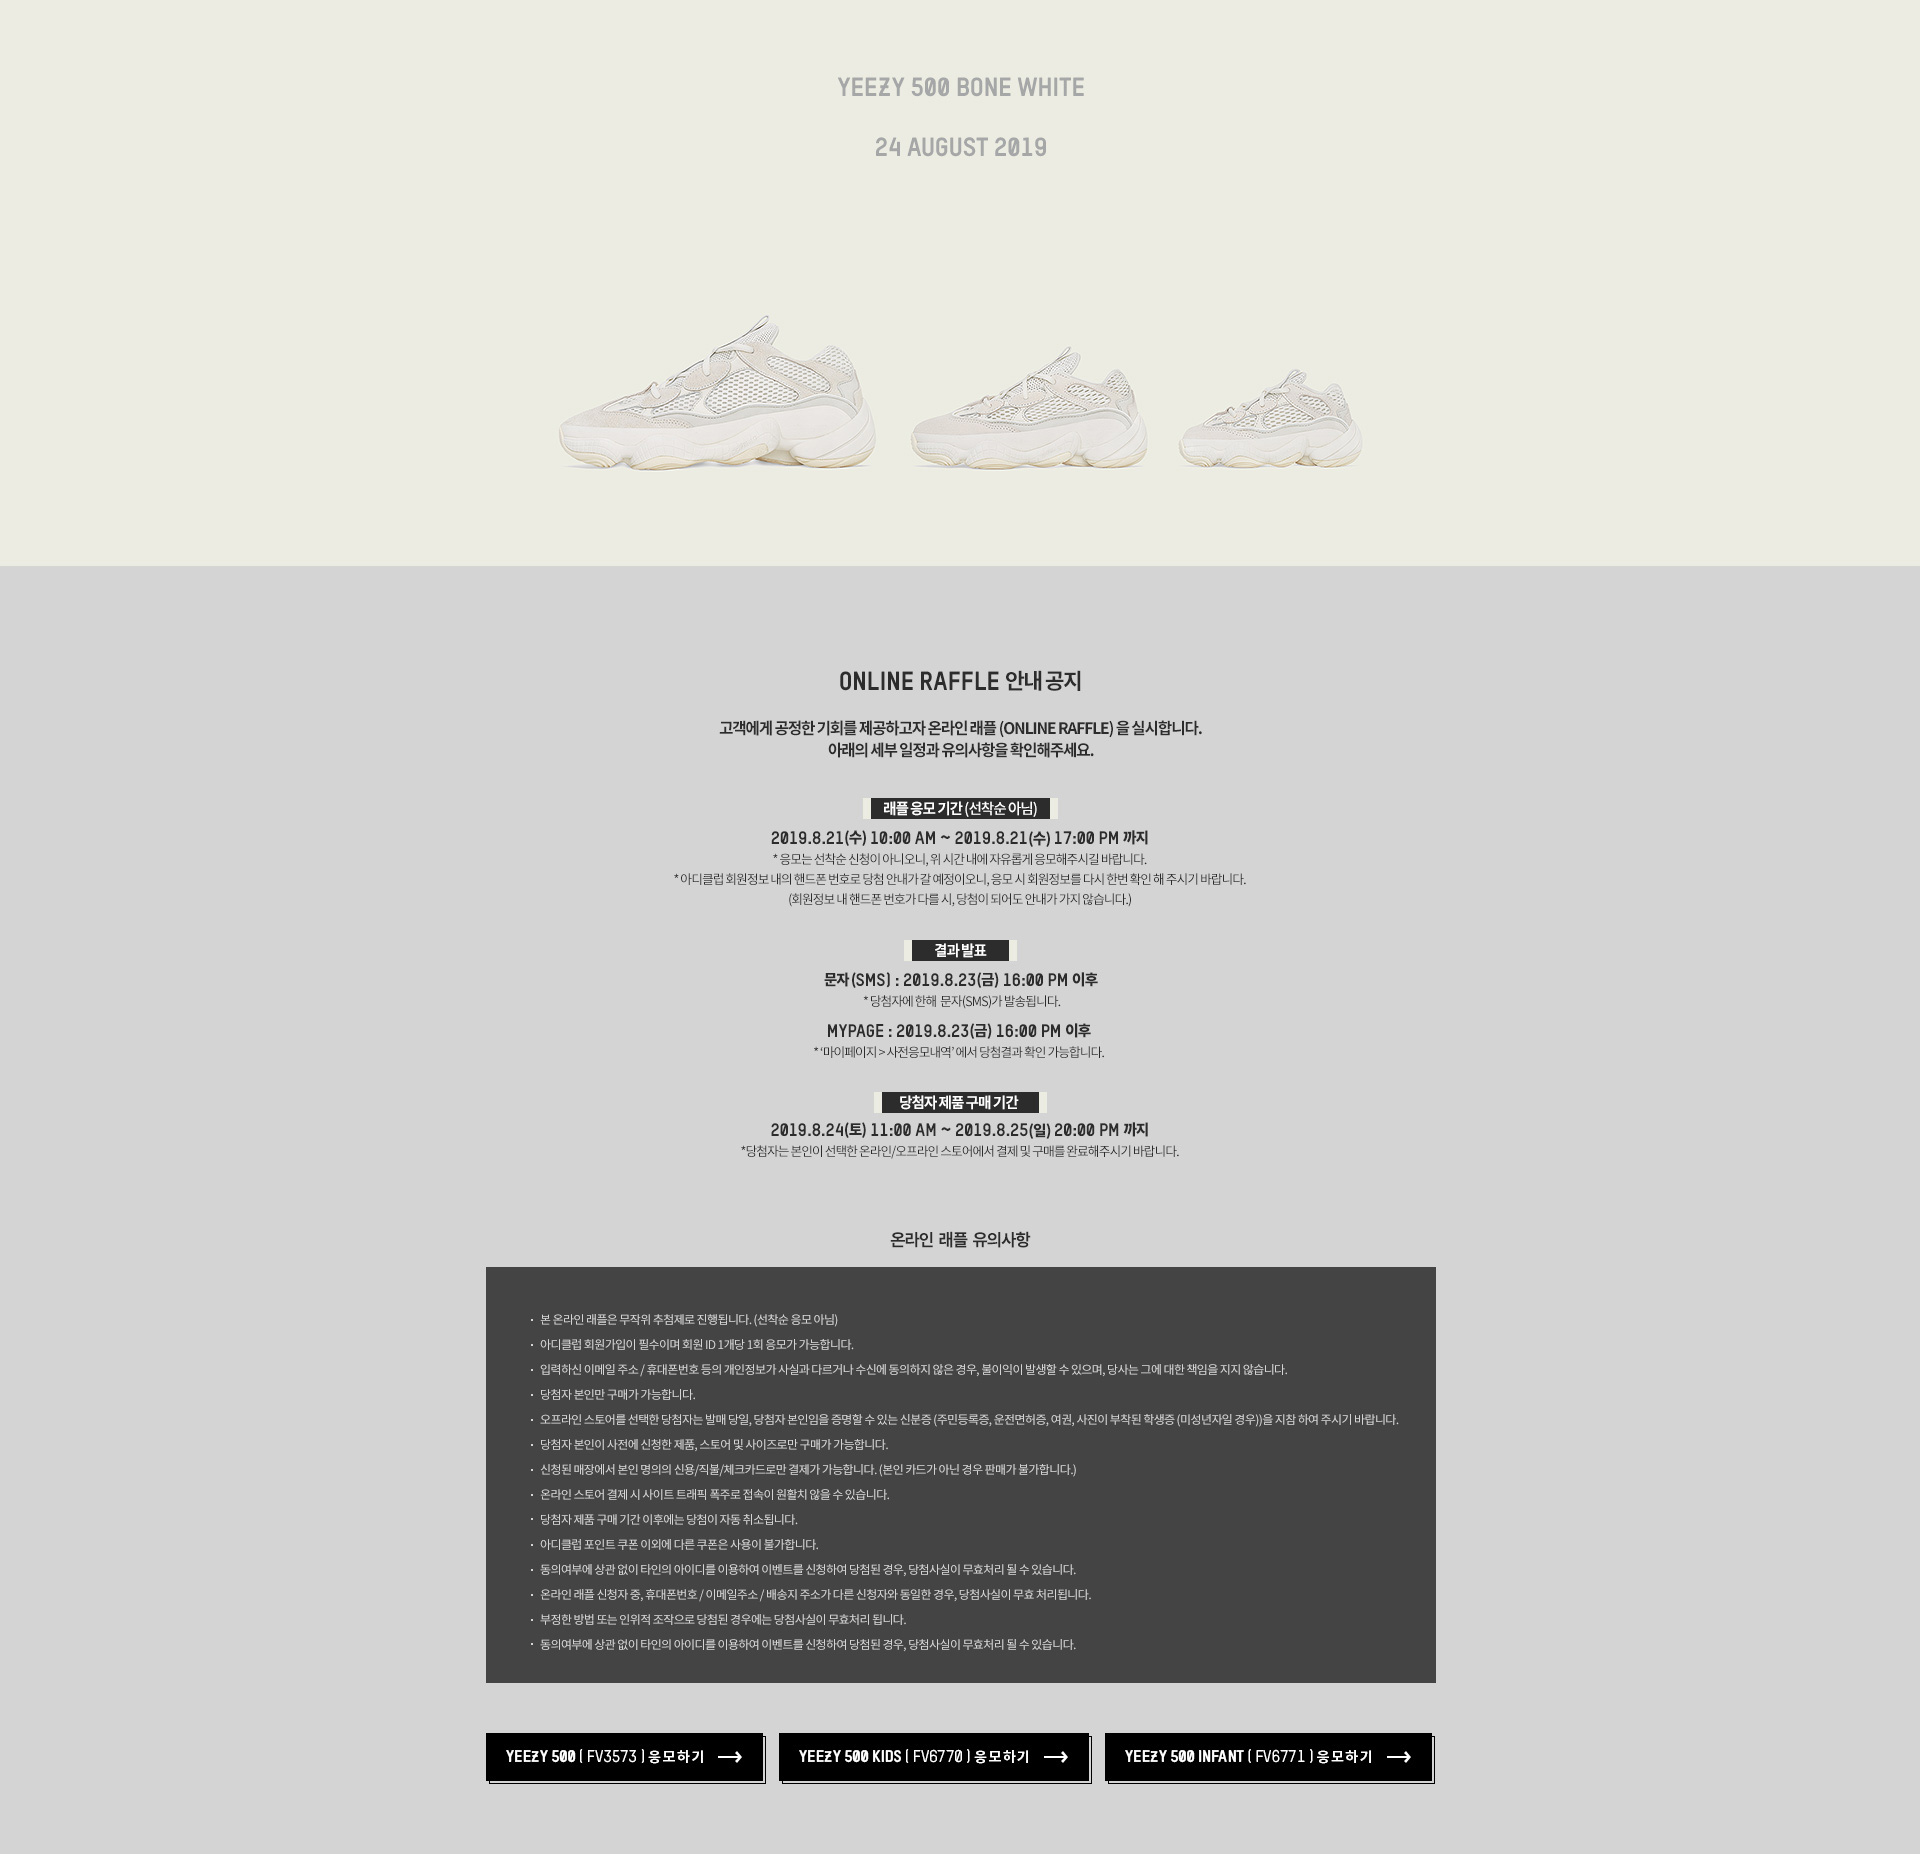
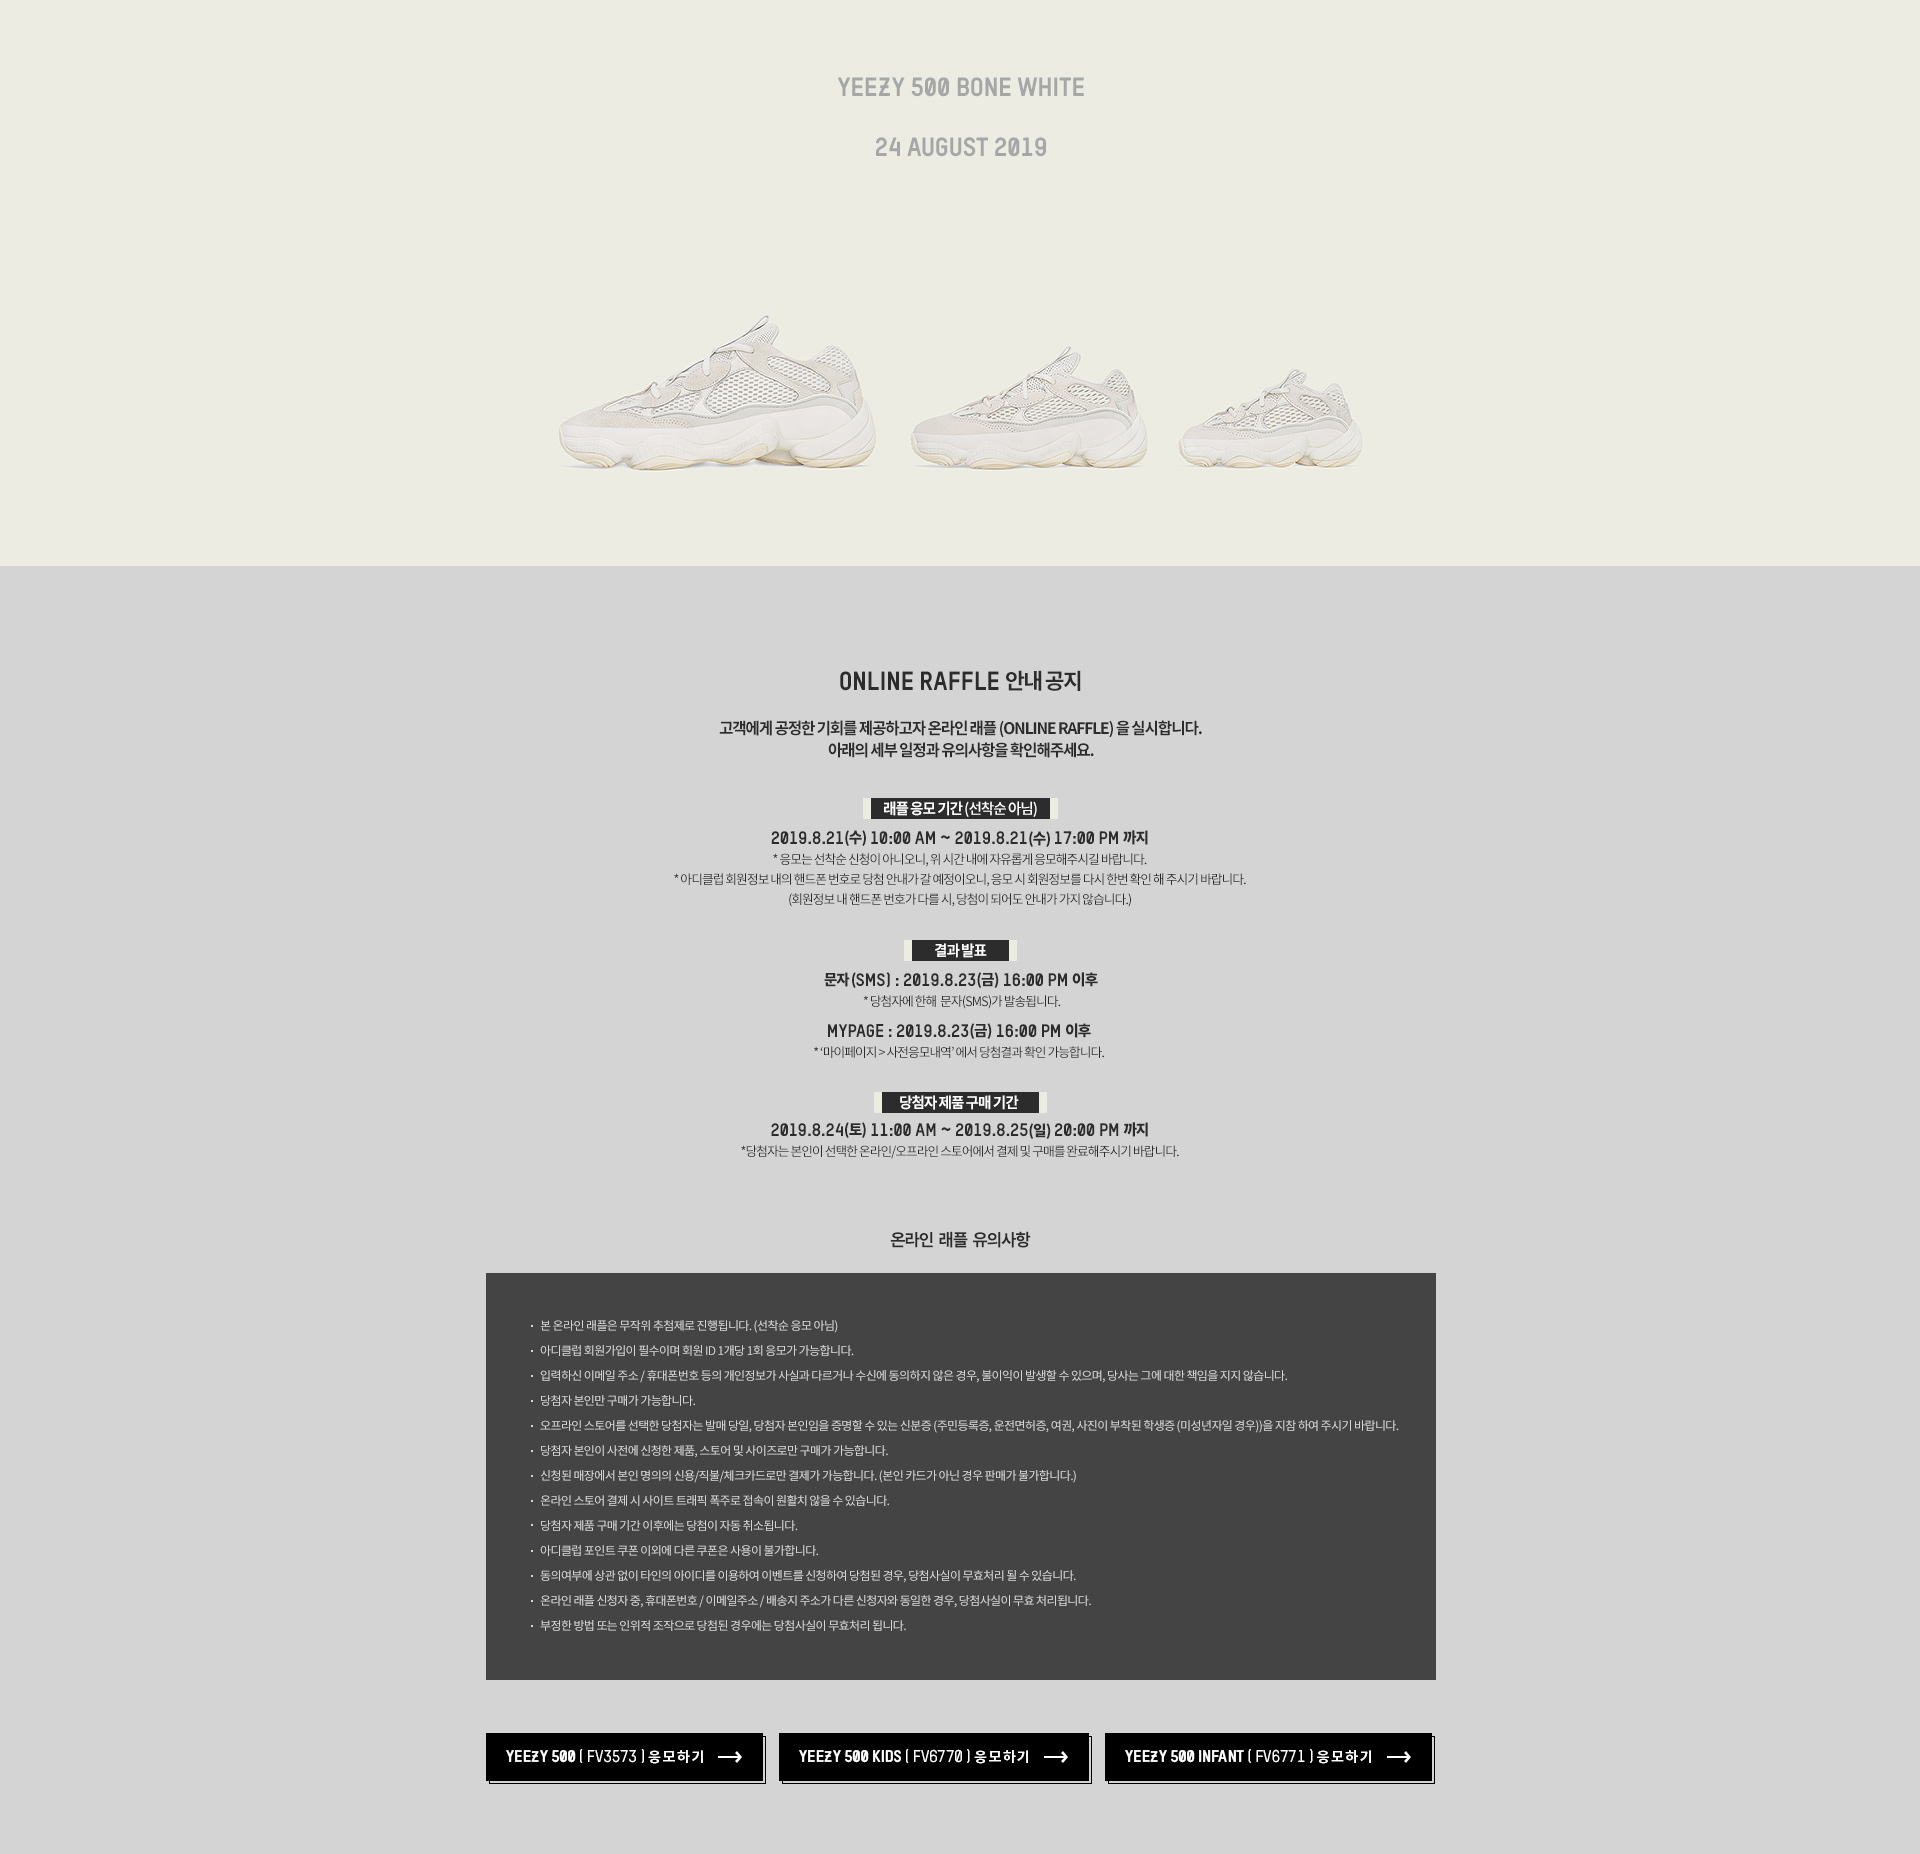
adi_FRT_이지

Changed region(s): [[0.2812, 0.6764, 0.7188, 0.8916]]

diff --git a/front/html/adidas/event/yeezy/190819/event_enter_vertical-2.html b/front/html/adidas/event/yeezy/190819/event_enter_vertical-2.html
@@ -1568,7 +1568,6 @@
 								<li>동의여부에 상관 없이 타인의 아이디를 이용하여 이벤트를 신청하여 당첨된 경우, 당첨사실이 무효처리 될 수 있습니다.</li>
 								<li>온라인 래플 신청자 중, 휴대폰번호 / 이메일주소 / 배송지 주소가 다른 신청자와 동일한 경우, 당첨사실이 무효 처리됩니다.</li>
 								<li>부정한 방법 또는 인위적 조작으로 당첨된 경우에는 당첨사실이 무효처리 됩니다.</li>
-								<li>동의여부에 상관 없이 타인의 아이디를 이용하여 이벤트를 신청하여 당첨된 경우, 당첨사실이 무효처리 될 수 있습니다.</li>
 							</ul>
 						</dd>
 					</dl>

diff --git a/front/html/adidas/event/yeezy/190819/event_enter_vertical-3.html b/front/html/adidas/event/yeezy/190819/event_enter_vertical-3.html
@@ -1568,7 +1568,6 @@
 								<li>동의여부에 상관 없이 타인의 아이디를 이용하여 이벤트를 신청하여 당첨된 경우, 당첨사실이 무효처리 될 수 있습니다.</li>
 								<li>온라인 래플 신청자 중, 휴대폰번호 / 이메일주소 / 배송지 주소가 다른 신청자와 동일한 경우, 당첨사실이 무효 처리됩니다.</li>
 								<li>부정한 방법 또는 인위적 조작으로 당첨된 경우에는 당첨사실이 무효처리 됩니다.</li>
-								<li>동의여부에 상관 없이 타인의 아이디를 이용하여 이벤트를 신청하여 당첨된 경우, 당첨사실이 무효처리 될 수 있습니다.</li>
 							</ul>
 						</dd>
 					</dl>

diff --git a/front/html/adidas/event/yeezy/190819/event_enter_vertical.html b/front/html/adidas/event/yeezy/190819/event_enter_vertical.html
@@ -1568,7 +1568,6 @@
 								<li>동의여부에 상관 없이 타인의 아이디를 이용하여 이벤트를 신청하여 당첨된 경우, 당첨사실이 무효처리 될 수 있습니다.</li>
 								<li>온라인 래플 신청자 중, 휴대폰번호 / 이메일주소 / 배송지 주소가 다른 신청자와 동일한 경우, 당첨사실이 무효 처리됩니다.</li>
 								<li>부정한 방법 또는 인위적 조작으로 당첨된 경우에는 당첨사실이 무효처리 됩니다.</li>
-								<li>동의여부에 상관 없이 타인의 아이디를 이용하여 이벤트를 신청하여 당첨된 경우, 당첨사실이 무효처리 될 수 있습니다.</li>
 							</ul>
 						</dd>
 					</dl>

diff --git a/front/html/adidas/event/yeezy/190819/yeezy_gate-2.html b/front/html/adidas/event/yeezy/190819/yeezy_gate-2.html
@@ -1140,7 +1140,7 @@
 							<p class="yzft" style="margin-bottom:40px;">24 AUGUST 2019</p>
 							<a href="#" class="button">
 								<span class="t1">응모하기</span>
-								<span class="t2"><strong>2019.8.21 <span>(수)</span> 05:00PM</strong> 마감</span>
+								<span class="t2"><strong>2019.8.21 <span>(수)</span> 17:00PM</strong> 마감</span>
 							</a>
 							<!-- //190819 작업 -->
 							<p class="noti">&#39;로그인이 필요합니다.&#39;</p>

diff --git a/front/html/adidas/event/yeezy/190819/yeezy_gate-3.html b/front/html/adidas/event/yeezy/190819/yeezy_gate-3.html
@@ -1140,7 +1140,7 @@
 							<p class="yzft" style="margin-bottom:40px;">24 AUGUST 2019</p>
 							<a href="#" class="button">
 								<span class="t1">응모하기</span>
-								<span class="t2"><strong>2019.8.21 <span>(수)</span> 05:00PM</strong> 마감</span>
+								<span class="t2"><strong>2019.8.21 <span>(수)</span> 17:00PM</strong> 마감</span>
 							</a>
 							<!-- //190819 작업 -->
 							<p class="noti">&#39;로그인이 필요합니다.&#39;</p>

diff --git a/front/html/adidas/event/yeezy/190819/yeezy_gate.html b/front/html/adidas/event/yeezy/190819/yeezy_gate.html
@@ -1140,7 +1140,7 @@
 							<p class="yzft" style="margin-bottom:40px;">24 AUGUST 2019</p>
 							<a href="#" class="button">
 								<span class="t1">응모하기</span>
-								<span class="t2"><strong>2019.8.21 <span>(수)</span> 05:00PM</strong> 마감</span>
+								<span class="t2"><strong>2019.8.21 <span>(수)</span> 17:00PM</strong> 마감</span>
 							</a>
 							<!-- //190819 작업 -->
 							<p class="noti">&#39;로그인이 필요합니다.&#39;</p>
